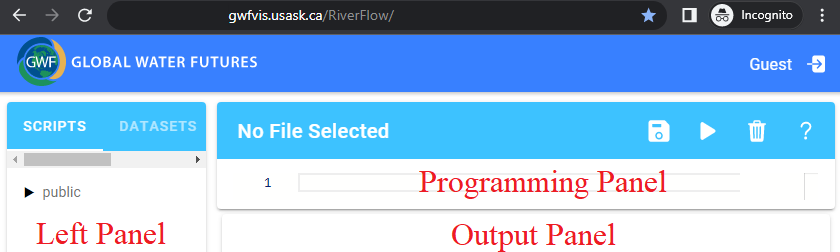
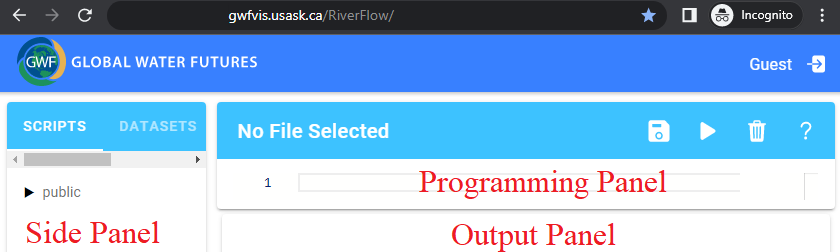
Updated README.md

Changed region(s): [[0.031, 0.8611, 0.2167, 0.9722]]

diff --git a/doc.md b/doc.md
@@ -1,9 +1,9 @@
-## How to get started?
+## Getting Started
  
 1.	Login with your NSID – click on the top right icon at [GWFVis](http://gwfvis.usask.ca/RiverFlow/).
 1.	Create a file by right clicking on the left panel directory labeled with your nsid.
 1.	A newly created file will already have some code written in it.
-1.	Execute the code by clicking the top right triangle icon. This will create a default layout for geographic visualization in a new tab as follows. 
+1.	Execute the code by clicking the top right triangle icon. This will create a default layout for geographic visualization in a new tab. 
 ![default map](https://www.cs.usask.ca/faculty/dmondal/Presentations/pic/map.jpg)
 
 <!--img src="https://www.cs.usask.ca/faculty/dmondal/Presentations/pic/map.jpg"
@@ -41,14 +41,14 @@
     gwfvis.render(vis_config)
     ```
 
-## Defining a Dataset Variable
+## Defining a dataset variable
 
-A sample dataset `catchment.gwfvisdb` is being loaded from the datasets directory. We will use this dataset later.
+A sample dataset `catchment.gwfvisdb` is being loaded from the datasets directory. 
 ```py
 dataset = 'http://gwfvis.usask.ca/RiverFlow/api/file/fetch/public/datasets/catchment.gwfvisdb'
 ```
 
-## How to add a new layer to the map?
+## Adding a new layer to the map
 
 You can add a new layer (e.g., polygons, rivers, etc.) to the map by using `gwfvis.add_map_element()` with two parameters. 
 
@@ -56,7 +56,9 @@ You can add a new layer (e.g., polygons, rivers, etc.) to the map by using `gwfv
 1. The type of the layer (e.g., `'geojson-layer'`, `'tile-layer'`, etc.). See [details](#All-current-provided-types).
 
 ```py
-polygons = gwfvis.add_map_element(vis_config, 'geojson-layer')
+polygons = gwfvis.add_map_element(
+    vis_config, 'geojson-layer' # create the layer
+)
 ```
 We now configure the properties of the layer by using `gwfvis.update_props()`.
 ```py  
@@ -65,7 +67,7 @@ gwfvis.update_props(
     {   
         'layerName': 'Catchment', # a layer name to show over the map
         'type': 'overlay', # overlay, because map defined as the base layer 
-        'dataSource': catchment_dataset #data source
+        'dataSource': dataset # data source
     }
 )
 ```
@@ -76,13 +78,41 @@ See [config color schemes](#Config-color-schemes) for changing colors of the pol
 
 <!-- We should chnage the style, not only color [line width - transperancy]-->
  
-## How to add user controls to the map?
+## Exploring the series data associated with the polygons (e.g., over time, soil depth, etc.)
 
-<!-- BEING EDITED FROM HERE -->
+To explore the series data associated with the polygon layer, we need create the follwing two controls over the map. 
 
+1. `variable-control`: This allows us to select a particular variable associated to the polygon using a dropdown menu (e.g., temp)
+2. `dimension-control`: This allows us to select a dimension of the selected variable over which it varies (e.g., time, soil depth).  
 
+Both of these controls can be added using `gwfvis.add_main_view_element()` and then configuring the properties by using `gwfvis.update_props()`.
 
-## How to add a legend for a polygon layer?
+```py
+    variable_control = gwfvis.add_main_view_element(
+        vis_config, 'variable-control'    # create the control
+    )
+    gwfvis.update_props(
+        variable_control, # configure the properties of the layer
+        {    
+            'width': '40rem',  # set the width of the container 
+            'dataSource': dataset # data source 
+        }
+    ) 
+    dimension_control = gwfvis.add_main_view_element(
+        vis_config, 'dimension-control'   # create the control
+    )
+    gwfvis.update_props(
+        dimension_control, # configure the properties of the layer
+        {     
+            'width': '40rem',  # set the width of the container           
+            'dataSource': dataset # data source
+        }
+    ) 
+```
+When you interact with these controls, the polygon layer gets updated. 
+Try `series_data.py` in [GWFVis](http://gwfvis.usask.ca/RiverFlow/).
+![Series Data](./images/series.png)
+<!-- ## How to add a legend for a polygon layer?
 As the polygons are usually colored, adding a legend would be helpful to understand the colors.
 
 #### Example: Adding a __legend__
@@ -104,8 +134,8 @@ As the polygons are usually colored, adding a legend would be helpful to underst
     gwfvis.add_plugin(vis_config, legend, 'main')
     ```
     
-Check out [config color schemes](#Config-color-schemes)
-
+Check out [config color schemes](#Config-color-schemes) -->
+<!-- 
 ## How to add a series of data to the polygons (e.g., time series, soil depth, etc.)?
 When the dataset contains dimensions, we can add add a __dimension control__ to the vis, which provides the ability to change any current dimension to a specific value. The __dimension control__ is imported as `dimension-control`. When you interact with the __dimension control__, the polygon layer would be updated.
 
@@ -153,7 +183,7 @@ When the dataset contains multiple, we can add add a variable control__ to the v
     gwfvis.add_plugin(vis_config, variable_control, 'main')
     ```
     ![variable control](https://www.cs.usask.ca/faculty/dmondal/Presentations/pic/F62636BA56E4451DAFF0A395EA30DBBE.png)
-_Go to [GWF Vis](http://gwfvis.usask.ca/RiverFlow/) and check the example file `variable_control.py`._
+_Go to [GWF Vis](http://gwfvis.usask.ca/RiverFlow/) and check the example file `variable_control.py`._ -->
 
 ## How to visualize polygon information (metadata) to the sidebar?
 There could be some information (metadata) for each polygon, which we can add a __metadata viewer__ to the vis. The __metadata viewer__ is imported as `metadata`. The metadata of current selected polygon, variable, and dimension would be shown.

diff --git a/README.md b/README.md
@@ -8,11 +8,11 @@ You can assess the GWFVis platform at [http://gwfvis.usask.ca/RiverFlow/](http:/
 
 ## Getting Started 
 
-GWFVis consists of a programming interface, which includes a left panel, a programming panel and an output panel. 
+GWFVis consists of a programming interface, which includes a side panel, a programming panel and an output panel. 
 
-The left panel provides an access to the file structure. Here you can find a set of scripts that are provided to you at the public directory. For example, the following two steps will run the sample script `welcome.py` to print the string  `Welcome!` on the output panel.
+The side panel provides an access to the file structure. Here you can find a set of scripts that are provided to you at the public directory. For example, the following two steps will run the sample script `welcome.py` to print the string  `Welcome!` on the output panel.
 
-1. Navigate to `welcome.py` on the left panel and click on the name `welcome.py`. This loads the file content or script on the main view. 
+1. Navigate to `welcome.py` on the side panel and click on the name `welcome.py`. This loads the file content or script on the main view. 
 1. Execute the script by clicking the execute button (the triangle icon on the top right).
 
 
@@ -29,7 +29,7 @@ Let's now run the sample script `catchment.py` by first navigating to  `catchmen
 
 You may edit the files in the public directory, but the system does not allow you to save them. To write and save your own script, you will need to login to the platform. 
 
-1. Login with your NSID – click on the top right icon at [GWF Vis](http://gwfvis.usask.ca/RiverFlow/). You will see a new directory on the left panel which is labeled with your NSID. You can create a new file in this directory.
+1. Login with your NSID – click on the top right icon at [GWF Vis](http://gwfvis.usask.ca/RiverFlow/). You will see a new directory on the side panel which is labeled with your NSID. You can create a new file in this directory.
 1. To create a new file, right click on the directory labeled with your NSID and enter a file name at the given prompt. You will see this file created in your directory.
 1.	The newly created file will already have some code written in it. 	Execute the code by clicking the execute button (the triangle icon on the top right). This will open a default layout for geographic visualization in a new tab. 
 
